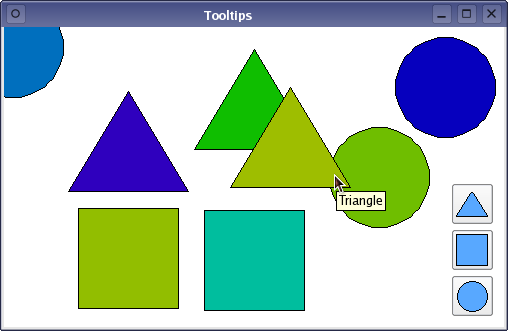
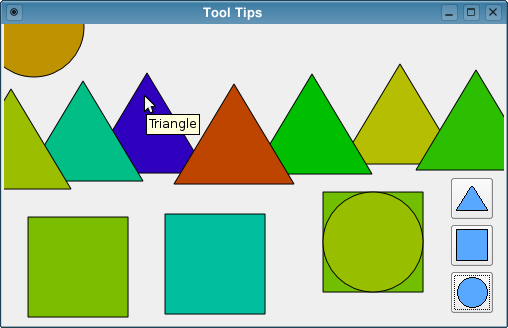
p4i integration Integrate 271224 from 4.3 to main: Fixes: Doc: Made the documentation about tool tips more consistent.        Improved the Tool Tips example. RevBy: Trust me
[git-p4: depot-paths = "//depot/qt/main/": change = 271225]

diff --git a/src/gui/kernel/qtooltip.cpp b/src/gui/kernel/qtooltip.cpp
@@ -34,7 +34,7 @@
 /*!
     \class QToolTip
 
-    \brief The QToolTip class provides tooltips (balloon help) for any
+    \brief The QToolTip class provides tool tips (balloon help) for any
     widget.
 
     \ingroup helpsystem
@@ -45,32 +45,32 @@
     position in a distinctive black-on-yellow color combination. The
     tip can be any \l{QTextEdit}{rich text} formatted string.
 
-    Rich text formatted tips implictely do word breaking, unless
+    Rich text displayed in a tool tip is implicitly word-wrapped unless
     specified differently with \c{<p style='white-space:pre'>}.
 
-    The simplest and most common way to set a widget's tooltip is by
+    The simplest and most common way to set a widget's tool tip is by
     calling its QWidget::setToolTip() function.
 
-    It is also possible to show different tooltips for different
+    It is also possible to show different tool tips for different
     regions of a widget, by using a QHelpEvent of type
     QEvent::ToolTip. Intercept the help event in your widget's \l
     {QWidget::}{event()} function and call QToolTip::showText() with
     the text you want to display. The \l{widgets/tooltips}{Tooltips}
     example illustrates this technique.
 
-    Note that if you want to show tooltips in an item view, the
+    Note that, if you want to show tooltips in an item view, the
     model/view architecture provides functionality to set an item's
-    tootip, e.g., the QTableWidgetItem::setToolTip() function. But if
-    you want to provide custom tooltips in an item view you must
-    intercept the help event in the QAbstractItemView::viewportEvent()
-    function instead.
+    tool tip; e.g., the QTableWidgetItem::setToolTip() function.
+    However, if you want to provide custom tool tips in an item view,
+    you must intercept the help event in the
+    QAbstractItemView::viewportEvent() function and handle it yourself.
 
-    The default tooltip color and font can be customized with
+    The default tool tip color and font can be customized with
     setPalette() and setFont(). When a tooltip is currently on
     display, isVisble() returns true and text() the currently visible
     text.
 
-    \sa QWidget::toolTip, QAction::toolTip, {Tooltips Example}
+    \sa QWidget::toolTip, QAction::toolTip, {Tool Tips Example}
 */
 
 class QTipLabel : public QLabel

diff --git a/examples/widgets/tooltips/sortingbox.cpp b/examples/widgets/tooltips/sortingbox.cpp
@@ -47,7 +47,7 @@ SortingBox::SortingBox()
     trianglePath.lineTo(120, 100);
     trianglePath.lineTo(x + 120 / 2, y);
 
-    setWindowTitle(tr("Tooltips"));
+    setWindowTitle(tr("Tool Tips"));
     resize(500, 300);
 
     createShapeItem(circlePath, tr("Circle"), initialItemPosition(circlePath),
@@ -85,6 +85,7 @@ void SortingBox::resizeEvent(QResizeEvent * /* event */)
 void SortingBox::paintEvent(QPaintEvent * /* event */)
 {
     QPainter painter(this);
+    painter.setRenderHint(QPainter::Antialiasing);
     foreach (ShapeItem shapeItem, shapeItems) {
         painter.translate(shapeItem.position());
         painter.setBrush(shapeItem.color());
